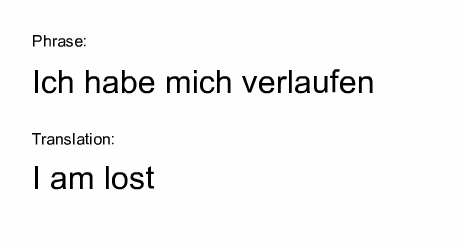
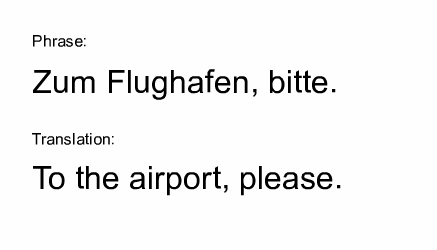
Add French translations to the list. Temporary fast tweeting for testing purposes.

diff --git a/src/index.js b/src/index.js
@@ -3,9 +3,10 @@ const fs = require('fs');
 const Jimp = require('jimp');
 const twitter = require('./twit');
 const utils = require('./utils');
+const languagesMap = require('./languages');
 
-const PPC = 20; // pixels per characters
-const INTERVAL_SECONDS = 7200;
+const PPC = 19; // pixels per characters
+const INTERVAL_SECONDS = 720;
 const IMAGE_PATH = 'media.png'; // image to be created and tweeted
 
 let lastTweet = {
@@ -58,14 +59,19 @@ const getRandomTranslation = data => new Promise((resolve, reject) => {
     return resolve(translation);
   }
 
-  console.log('Tweet is the same, getting a new one...');
-  return getRandomTranslation(data);
+  return tweetATranslation();
 });
+
+const chooseLanguage = () => {
+  const lang = languagesMap[Math.floor(Math.random() * languagesMap.length)];
+  return lang;
+}
 
 const tweetATranslation = () => {
   console.log('About to tweet at', new Date().toString());
-  const lang = 'de';
-  utils.readJSON(`./data/${lang}.json`)
+  const lang = chooseLanguage();
+
+  utils.readJSON(`./data/${lang.filename}`)
     .then(getRandomTranslation)
     .then(calculateImageSize)
     .then(data => writePicture(data.translation, data.size))
@@ -80,7 +86,7 @@ const tweetATranslation = () => {
 console.log(`Starting Twitter Bot 🤖`);
 
 // Kick it off!
-//setInterval(tweetATranslation, INTERVAL_SECONDS * 1000);
-//tweetATranslation();
+setInterval(tweetATranslation, INTERVAL_SECONDS * 1000);
+tweetATranslation();
 
 //twitter.deleteAllTweets();

diff --git a/src/twit.js b/src/twit.js
@@ -36,7 +36,7 @@ const deleteAllTweets = (data) => {
 
 const postWithMedia = data => {
   const b64 = fs.readFileSync(data.path, { encoding: 'base64' });
-  const flag = data.lang === 'de' ? '🇩🇪' : '🇫🇷';
+  const flag = data.lang.flag;
   const status = `${flag} ${data.translation.translation.original}`;
 
   Twitter.post('media/upload', {

diff --git a/src/languages.js b/src/languages.js
@@ -1,0 +1,12 @@
+const languagesMap = [
+  {
+    filename: 'de.json',
+    label: 'German',
+    flag: '🇩🇪',
+  },{
+    filename: 'fr.json',
+    label: 'French',
+    flag: '🇫🇷'
+}];
+
+module.exports = languagesMap;
